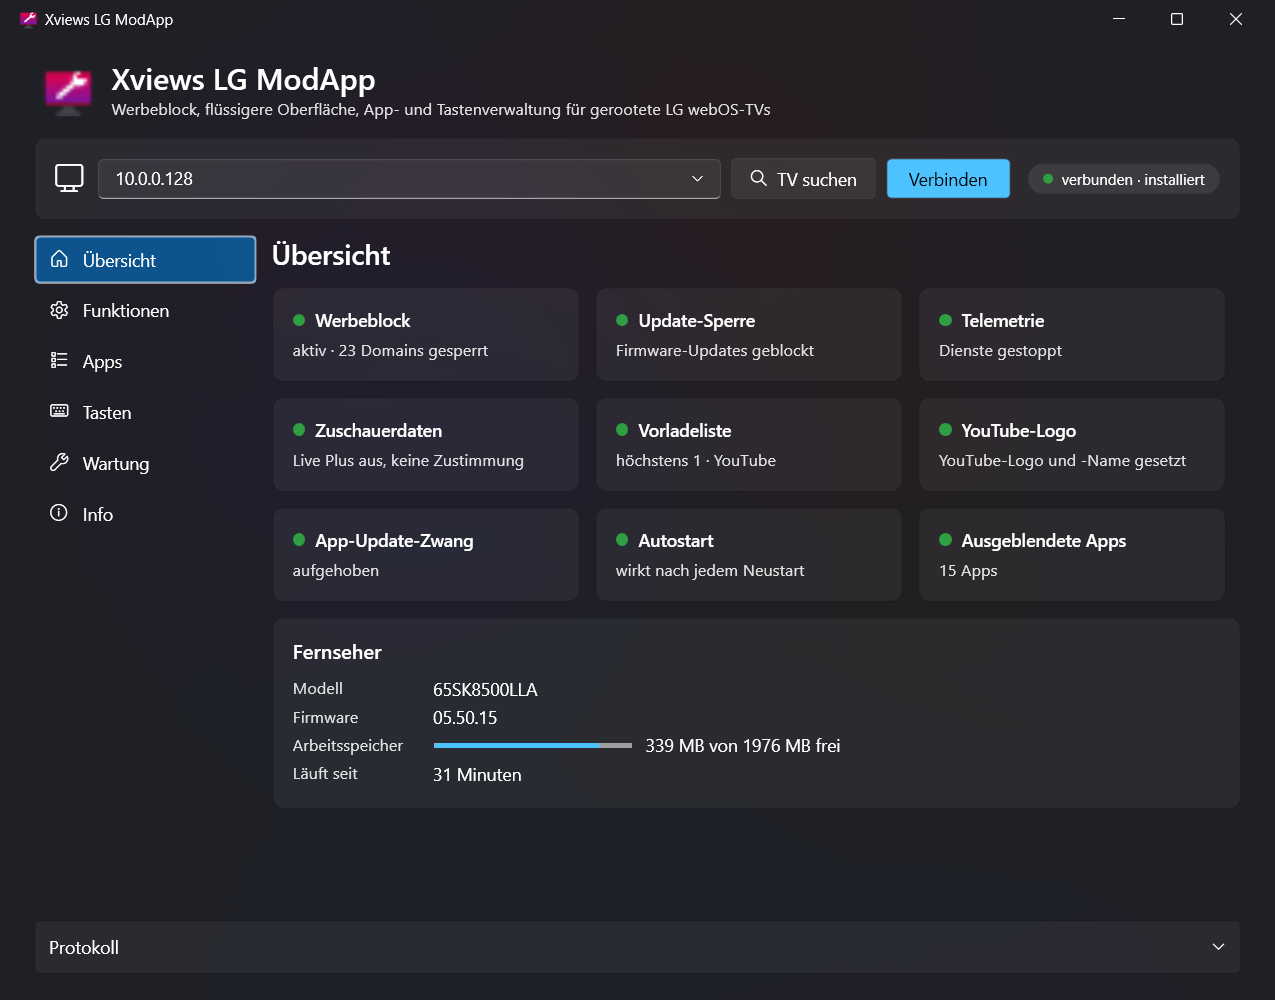
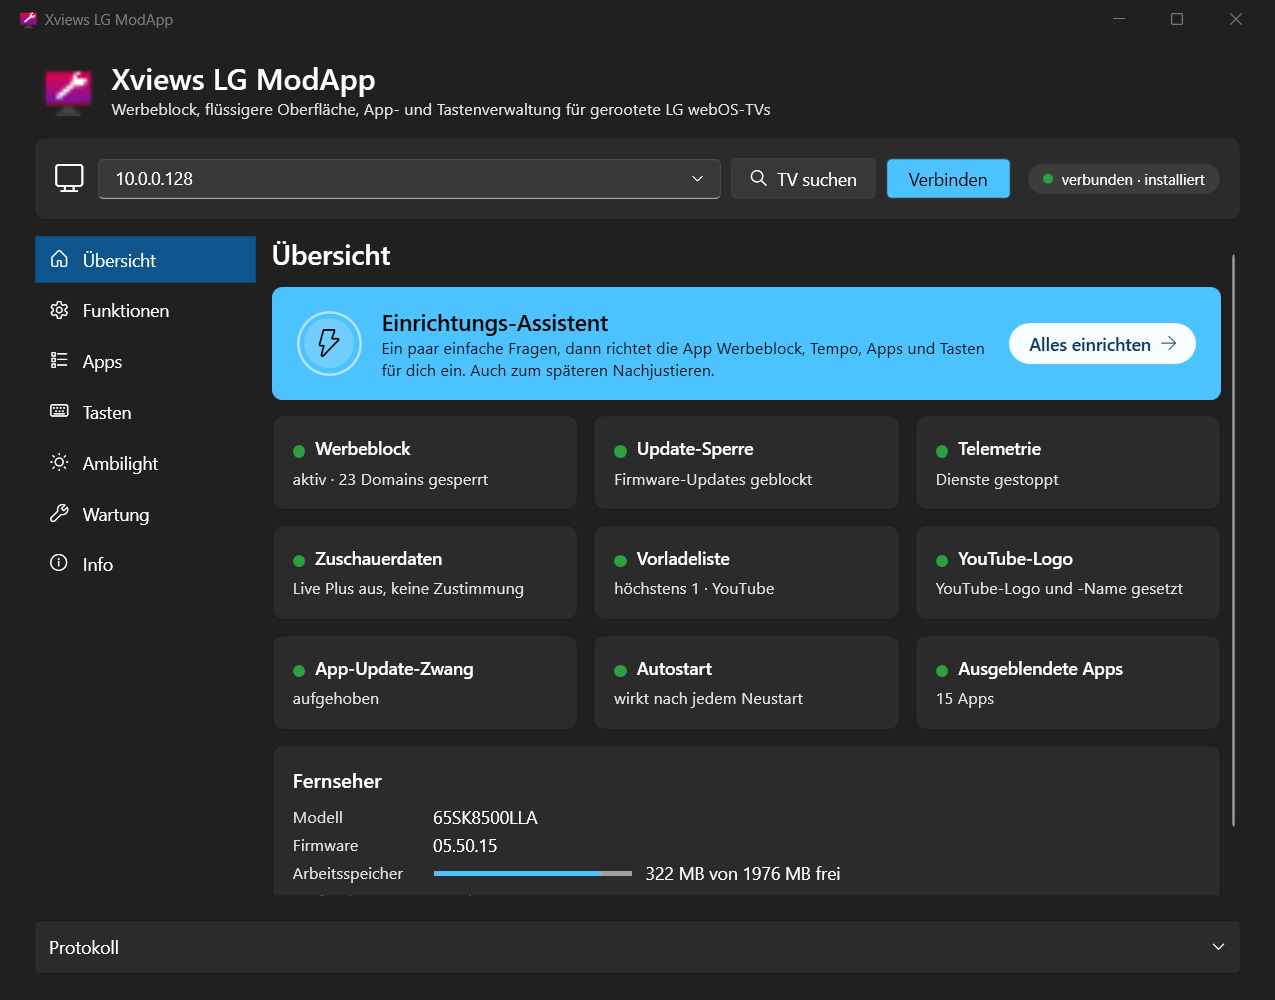
Version 1.1.0: Einrichtungs-Assistent und Ambilight

diff --git a/README.md b/README.md
@@ -6,7 +6,7 @@
 
 <p align="center">
   <b>Mehr aus deinem gerooteten LG-TV holen, mit einem Klick.</b><br>
-  Werbung weg, Root geschützt, Apps aufgeräumt, Tasten frei belegt. Alles umkehrbar.
+  Werbung weg, Root geschützt, Apps aufgeräumt, Tasten frei belegt, Ambilight im Griff. Alles umkehrbar.
 </p>
 
 <p align="center">
@@ -24,7 +24,7 @@
 
 ---
 
-Werbekacheln im Home-Menü, Firmware-Updates, die den Root wieder entfernen, ein Dutzend LG-Apps, die niemand braucht, und Live Plus, das mitschaut, was gerade läuft. **Die ModApp räumt das auf:** Das kostenlose Windows-Tool findet deinen TV im Netzwerk und stellt alles mit ein paar Haken ein. Es verändert keine Systemdateien, und alles lässt sich mit einem Klick wieder entfernen.
+Werbekacheln im Home-Menü, Firmware-Updates, die den Root wieder entfernen, ein Dutzend LG-Apps, die niemand braucht, und Live Plus, das mitschaut, was gerade läuft. **Die ModApp räumt das auf:** Das kostenlose Windows-Tool findet deinen TV im Netzwerk, und ein Assistent stellt mit ein paar Ja/Nein-Fragen alles ein. Es verändert keine Systemdateien, und alles lässt sich mit einem Klick wieder entfernen.
 
 <p align="center">
   <img src="bilder/1-uebersicht.png" width="760" alt="Übersicht: Status aller Funktionen und Daten des Fernsehers">
@@ -32,13 +32,16 @@ Werbekacheln im Home-Menü, Firmware-Updates, die den Root wieder entfernen, ein
 
 ## So geht's
 
-| 1⃣ Verbinden | 2⃣ Installieren | 3⃣ Einstellen |
+| 1⃣ Starten | 2⃣ Fragen beantworten | 3⃣ Übernehmen |
 |---|---|---|
-| App starten. Sie sucht den TV im Netzwerk und verbindet sich. Beim ersten Mal einmal das root-Passwort eingeben (Homebrew-Standard: `alpine`). | In der Übersicht auf **Installieren** klicken. Ab jetzt wirkt alles sofort und nach jedem Neustart. | Funktionen an- und abschalten, Apps ausblenden, Tasten belegen. Fertig. |
+| App starten. Der Einrichtungs-Assistent öffnet sich, sucht den TV und verbindet sich. Beim ersten Mal einmal das root-Passwort eingeben (Homebrew-Standard: `alpine`). | Werbung weg? Flüssiger? Welche Apps nutzt du nie? Welche Farbtaste soll was öffnen? Die Empfehlung ist schon gewählt. | **Alles übernehmen** klicken. Ab jetzt wirkt alles sofort und nach jedem Neustart. Später lässt sich alles einzeln nachjustieren. |
 
 **Voraussetzung:** ein gerooteter LG-TV mit [Homebrew Channel](https://github.com/webosbrew/webos-homebrew-channel), dort **SSH** eingeschaltet. Rooten geht z. B. mit [RootMyTV](https://rootmy.tv/) oder [faultmanager-autoroot](https://github.com/throwaway96/faultmanager-autoroot), je nach Firmware.
 
 ## Funktionen
+
+**Einrichtungs-Assistent**
+- 🪄 **Alles in ein paar Minuten:** einfache Ja/Nein-Fragen zu Schutz, Tempo, Apps und Farbtasten, die Empfehlung ist schon gewählt. Erst ganz am Ende wird alles auf einmal übernommen, wer vorher abbricht, hat nichts verändert. Öffnet sich beim ersten Start von selbst und eignet sich auch zum späteren Nachjustieren.
 
 **Schutz & Datenschutz**
 - 🚫 **Werbung & Tracking blocken:** sperrt LGs Werbe- und Analyse-Server, eigene Domains lassen sich ergänzen. Content Store und Apps funktionieren weiter.
@@ -59,26 +62,47 @@ Werbekacheln im Home-Menü, Firmware-Updates, die den Root wieder entfernen, ein
 **Tasten**
 - 🎮 **Fernbedienung neu belegen** (über [LG Input Hook](https://github.com/Simon34545/lginputhook), die App installiert ihn auf Wunsch): Taste drücken, die App erkennt sie. Dann z. B. direkt auf Sky, Xbox oder YouTube schalten, Bildschirm aus mit Ton weiter, Ambilight an/aus, Taste abschalten. Wirkt sofort, ohne Neustart.
 
+**Ambilight** (für [Hyperion.NG](https://github.com/webosbrew/hyperion.ng-webos-loader) mit [PicCap](https://github.com/TBSniller/piccap) und [WLED](https://kno.wled.ge/)-Streifen)
+- 💡 **Alles auf einen Blick:** Läuft die Bildaufnahme, läuft Hyperion, leuchten die LED-Streifen? Ambilight mit einem Klick an und aus, Hyperion- und WLED-Einstellungen direkt öffnen, jeden Streifen kurz rot blinken lassen.
+- 📶 **Assistent für neuen Router oder neues WLAN:** Führt Schritt für Schritt mit Bildern durch, wie Fernseher und LED-Streifen (über das WLAN „WLED-AP“ mit dem Handy) ins neue WLAN kommen. Die App sieht live, wenn alles wieder da ist, lässt bei Bedarf jeden Streifen blinken und fragt, welcher es ist, und trägt die neuen Adressen in Hyperion ein. Vorher wird eine Sicherung angelegt.
+
 **Außerdem**
 - 🔄 **Startet der TV über die App neu, verbindet sie sich danach von selbst.**
+- 🖥 **Scharf auf jedem Bildschirm:** passt sich der Windows-Skalierung pro Monitor an und passt auch auf kleine Laptop-Bildschirme.
 - ⬆ **Updates mit einem Klick:** Die App meldet neue Versionen, lädt sie nach Rückfrage, prüft die Prüfsumme und startet neu.
 
 <table>
   <tr>
-    <td width="50%"><img src="bilder/2-funktionen.png" alt="Funktionen einzeln an- und abschalten"></td>
-    <td width="50%"><img src="bilder/3-apps.png" alt="LG-Apps ausblenden mit Erklärungen"></td>
+    <td width="50%"><img src="bilder/2-einrichtung.png" alt="Einrichtungs-Assistent mit Ja/Nein-Fragen"></td>
+    <td width="50%"><img src="bilder/3-funktionen.png" alt="Funktionen einzeln an- und abschalten"></td>
   </tr>
   <tr>
+    <td align="center">Einrichtungs-Assistent</td>
     <td align="center">Funktionen</td>
+  </tr>
+  <tr>
+    <td width="50%"><img src="bilder/4-apps.png" alt="LG-Apps ausblenden mit Erklärungen"></td>
+    <td width="50%"><img src="bilder/5-tasten.png" alt="Tasten der Fernbedienung neu belegen"></td>
+  </tr>
+  <tr>
     <td align="center">Apps ausblenden</td>
-  </tr>
-  <tr>
-    <td width="50%"><img src="bilder/4-tasten.png" alt="Tasten der Fernbedienung neu belegen"></td>
-    <td width="50%"><img src="bilder/5-info.png" alt="Info-Seite mit Updates"></td>
-  </tr>
-  <tr>
     <td align="center">Tasten belegen</td>
+  </tr>
+  <tr>
+    <td width="50%"><img src="bilder/6-ambilight.png" alt="Ambilight: Bildaufnahme, Hyperion und LED-Streifen auf einen Blick"></td>
+    <td width="50%"><img src="bilder/7-wlan-assistent.png" alt="Assistent für neuen Router: LED-Streifen mit dem Handy ins neue WLAN bringen"></td>
+  </tr>
+  <tr>
+    <td align="center">Ambilight</td>
+    <td align="center">Neuer Router oder neues WLAN</td>
+  </tr>
+  <tr>
+    <td width="50%"><img src="bilder/8-info.png" alt="Info-Seite mit Updates"></td>
+    <td width="50%"></td>
+  </tr>
+  <tr>
     <td align="center">Info &amp; Updates</td>
+    <td></td>
   </tr>
 </table>
 
@@ -119,6 +143,7 @@ Werbekacheln im Home-Menü, Firmware-Updates, die den Root wieder entfernen, ein
 - **Live Plus & Zuschauerdaten:** Einstellungen über LGs eigenen Einstellungsdienst. Die vorherigen Werte werden gesichert und beim Abschalten wiederhergestellt.
 - **Apps ausblenden:** Einträge in LGs Liste gelöschter Systemapps. Die App merkt sich, was sie selbst eingetragen hat, und nimmt beim Deinstallieren nur diese Einträge wieder heraus.
 - **Tasten:** `/home/root/.config/lginputhook/keybinds.json` von LG Input Hook, vorhandene Belegungen bleiben erhalten.
+- **Ambilight:** Ein- und Ausschalten über die Dienste von PicCap und Hyperion. Neue Adressen der LED-Streifen werden in Hyperions Datenbank `/home/root/.hyperion/db/hyperion.db` eingetragen, vorher wird sie als `hyperion.db.modapp-backup` gesichert.
 
 </details>
 
@@ -127,7 +152,7 @@ Werbekacheln im Home-Menü, Firmware-Updates, die den Root wieder entfernen, ein
 
 - **Update-Suche:** Die öffentliche Release-Seite auf GitHub wird höchstens einmal am Tag abgefragt.
 - **LG Input Hook installieren:** Nur wenn du auf „Installieren“ klickst. Dann liest die App den offiziellen Homebrew-Katalog (repo.webosbrew.org), und der Homebrew Channel lädt die App auf dem TV und prüft ihre Prüfsumme.
-- Sonst spricht die App nur mit deinem TV im Heimnetz.
+- Sonst spricht die App nur mit deinem TV und, für das Ambilight, mit den WLED-Streifen im Heimnetz.
 
 </details>
 
